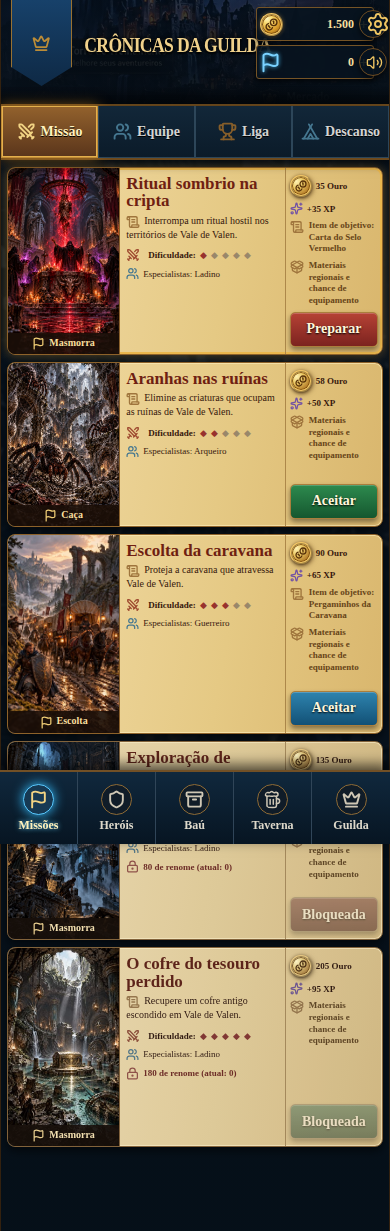
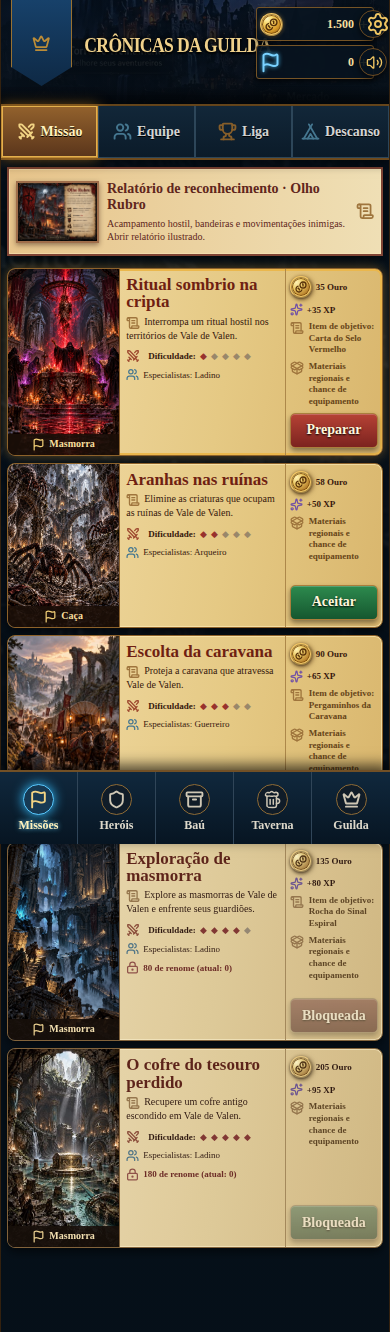
Integra artes aprovadas da Liga, Santuário e Olho Rubro
Aplica os três materiais enviados diretamente às telas existentes, com brasões/troféus como componentes, Santuário em proporção inteira e relatório regional do Olho Rubro. Testes de imagens, build e visual PC/celular aprovados.

diff --git a/app/game-client.tsx b/app/game-client.tsx
@@ -38,6 +38,19 @@ const ATTRIBUTE_SYMBOLS:Record<string,GameSymbolKind>={Ataque:"attack",Defesa:"d
 
 const missionArt = ["/reference/mission-1.webp", "/reference/mission-2.webp", "/reference/mission-3.webp", "/reference/mission-4.webp", "/reference/mission-5.webp"];
 const valenMissionArt = Array.from({ length: 7 }, (_, i) => `/reference/valen-mission-${i + 1}.jpg`);
+const LEAGUE_TROPHY = "/league/trophy.webp";
+const LEAGUE_PLAYER_CREST = "/league/crest-player.webp";
+const RIVAL_CREST_NAMES: Record<string,number> = {
+  "Cavaleiros da Tempestade":0, "Escudos da Fronteira":1,
+  "Arautos da Floresta":2, "Andarilhos da Montanha":3, "Arautos da Torre":4
+};
+function leagueCrest(guild:{id:string;name:string}) {
+  if(guild.id==="player") return LEAGUE_PLAYER_CREST;
+  const named=RIVAL_CREST_NAMES[guild.name];
+  const rivalId=/^rival-(\d+)$/.exec(guild.id);
+  const fallback=rivalId?Number(rivalId[1])%5:Math.abs([...guild.id].reduce((acc,ch)=>acc*31+ch.charCodeAt(0),0))%5;
+  return "/league/crest-rival-"+(named??fallback)+".webp";
+}
 const itemSlots = new Set(["weapon","offhand","helmet","armor","gloves","boots","accessory"]);
 const specialtyNames: Record<string,string> = {
   warrior:"Guerreiro", paladin:"Paladino", rogue:"Ladino", ranger:"Arqueiro",
@@ -329,6 +342,18 @@ function MissionPage({
   const boss = seasonBoss(state);
   const cards = [...board, ...(boss ? [boss] : [])];
   return <section className="screen mission-screen">
+    {state.activeRegion===1&&<details className="enemy-dossier parchment">
+      <summary>
+        <img src="/reference/olho-rubro-report-2026.webp" alt="" loading="lazy"/>
+        <span><strong>Relatório de reconhecimento · Olho Rubro</strong>
+          <small>Acampamento hostil, bandeiras e movimentações inimigas. Abrir relatório ilustrado.</small></span>
+        <GameSymbol kind="objective" size={23}/>
+      </summary>
+      <div className="enemy-dossier-content">
+        <img src="/reference/olho-rubro-report-2026.webp" alt="Relatório ilustrado sobre o posto avançado do Olho Rubro, com fortificações, estandartes, objetivos e recomendações de reconhecimento." loading="lazy"/>
+        <p>Registro de inteligência sobre o Olho Rubro. Os objetivos, dificuldades e recompensas válidos para jogar estão nas missões abaixo.</p>
+      </div>
+    </details>}
     <div className="mission-list">
       {cards.map((m, index) => {
         const locks = missionLocks(state, m);
@@ -463,14 +488,14 @@ function LeaguePage({ state, team, act, busy }: { state: Campaign; team: string[
   return <section className="screen league-screen">
     <div className="league-summary parchment">
       <div><span>Nossa Posição</span><strong>{place}º</strong></div>
-      <div className="big-crest"><GameSymbol kind="guild"/></div>
-      <div><h2>{state.name}</h2><p><GameSymbol kind="league"/> {state.points} Pontos da Liga</p><small><GameSymbol kind="fame"/> Prestígio: {state.fame} · Divisão {rank(state)}</small></div>
+      <div className="big-crest"><img src={LEAGUE_PLAYER_CREST} alt="Brasão da Guilda do Alvorecer: sol dourado sobre montanhas e fundo azul." width={90} height={104}/></div>
+      <div><h2>{state.name}</h2><p><img className="league-trophy" src={LEAGUE_TROPHY} alt="" width={24} height={29}/> {state.points} Pontos da Liga</p><small><GameSymbol kind="fame"/> Prestígio: {state.fame} · Divisão {rank(state)}</small></div>
     </div>
-    <ParchmentTitle icon={<GameSymbol kind="league"/>} title="Classificação da Liga" side={<span>Temporada {state.season}</span>} />
+    <ParchmentTitle icon={<img className="league-trophy" src={LEAGUE_TROPHY} alt="" width={29} height={35}/>} title="Classificação da Liga" side={<span>Temporada {state.season}</span>} />
     <div className="league-table parchment">
-      <div className="league-head"><b>#</b><b>Guilda</b><b><GameSymbol kind="league"/> Pontos</b><b><GameSymbol kind="reward"/> Recompensa</b></div>
+      <div className="league-head"><b>#</b><b>Guilda</b><b><img className="league-trophy" src={LEAGUE_TROPHY} alt="" width={17} height={21}/> Pontos</b><b><GameSymbol kind="reward"/> Recompensa</b></div>
       {table.slice(0,5).map((g,i) => <div key={g.id} className="league-row" data-player={g.id === "player"}>
-        <strong>{i+1}</strong><span><i className={"mini-banner b" + (i%5)} />{g.name}</span><b><GameSymbol kind="league"/> {g.points}</b><small><GameSymbol kind="reward"/> {leaguePrize(i+1, state.leagueTier)} ouro</small>
+        <strong>{i+1}</strong><span><img className="league-rival-crest" src={leagueCrest(g)} alt={"Brasão de "+g.name} width={42} height={48}/>{g.name}</span><b><img className="league-trophy" src={LEAGUE_TROPHY} alt="" width={22} height={28}/> {g.points}</b><small><GameSymbol kind="reward"/> {leaguePrize(i+1, state.leagueTier)} ouro</small>
       </div>)}
     </div>
     <ParchmentTitle icon={<GameSymbol kind="battle"/>} title="Desafio de Guilda" side={<span>Equipe: {team.length}/4</span>} />
@@ -490,7 +515,7 @@ function RestPage({ state, act, busy }: { state: Campaign; act: (a: Action) => v
   const shown = (recover.length ? recover : state.heroes).slice(0,4);
   return <section className="screen rest-screen">
     <div className="sanctuary-head parchment">
-      <img src="/reference/sanctuary.webp" alt="" />
+      <img src="/reference/sanctuary-2026.webp" alt="Santuário da Guilda: acampamento medieval com leitos de recuperação, fogueira, lanternas e o estandarte azul da guilda." width={1360} height={765} />
       <div><h2><GameSymbol kind="sanctuary"/> Santuário da Guilda</h2><p>Aqui seus heróis feridos podem repousar e se recuperar para novas aventuras.</p>
         <strong><GameSymbol kind="squad"/> Capacidade</strong><div className="beds">▰ ▰ ▰ ▱ ▱</div><span>{recover.length} heróis precisam de recuperação</span>
       </div>
@@ -827,7 +852,7 @@ function GuildPage({
   const raidTeams = availableRaidHeroes.length >= 9 ? [availableRaidHeroes.slice(0,3).map(h=>h.id),availableRaidHeroes.slice(3,6).map(h=>h.id),availableRaidHeroes.slice(6,9).map(h=>h.id)] : [];
   return <section className="screen guild-screen">
     <div className="guild-identity parchment">
-      <div className="guild-banner"><GameSymbol kind="guild"/></div>
+      <div className="guild-banner"><img src={LEAGUE_PLAYER_CREST} alt="Brasão da Guilda do Alvorecer" width={88} height={102}/></div>
       <div><h2>{state.name}</h2><p>Força na união, glória em cada jornada.</p><span><GameSymbol kind="squad"/> Membros: {state.heroes.length}/12</span><span><GameSymbol kind="defense"/> Nível da Guilda: {Math.max(1,Math.ceil(state.fame/120))}</span></div>
       <aside><strong><GameSymbol kind="gold"/> Tesouro {fmt(state.gold)}</strong><strong><GameSymbol kind="fame"/> Renome {state.fame}</strong><strong><GameSymbol kind="league"/> Liga {rank(state)}</strong></aside>
     </div>

diff --git a/app/ui.css b/app/ui.css
@@ -1974,3 +1974,118 @@ svg.game-symbol--forge,svg.game-symbol--merchant{color:#7d5732}
 .symbol-guide-grid>span svg.game-symbol--gold,.symbol-guide-grid>span svg.game-symbol--reward{width:23px;height:23px}
 @media(max-width:550px){.symbol-guide-grid{grid-template-columns:repeat(2,minmax(0,1fr))}.symbol-guide-grid>span{font-size:10px}}
 @media(min-width:1000px){.symbol-guide-grid{grid-template-columns:repeat(4,minmax(0,1fr))}}
+
+/* Artes oficiais enviadas: 3 origens, sem recorte forçado do Santuário ou do dossiê. */
+.league-summary{
+  position:relative;
+  grid-template-columns:minmax(105px,25%) minmax(80px,17%) minmax(0,1fr);
+  gap:clamp(7px,1.5vw,22px);
+  padding:clamp(11px,1.5vw,18px);
+  border:2px solid #b58b44;
+  background:linear-gradient(140deg,#fff2cd 0%,#eed499 46%,#dcbc7a 100%);
+}
+.league-summary>div:first-child strong{font-size:clamp(40px,4.5vw,62px)}
+.league-summary .big-crest{
+  width:clamp(65px,9vw,105px);height:auto;
+  display:flex;align-items:center;justify-content:center;
+  margin-inline:auto;
+  background:transparent;clip-path:none;overflow:visible;
+}
+.league-summary .big-crest img{
+  width:100%;height:auto;object-fit:contain;
+  filter:drop-shadow(0 3px 3px #44260870);
+}
+.league-trophy{width:23px;height:28px;object-fit:contain;vertical-align:middle;flex-shrink:0;filter:drop-shadow(0 1px 2px #81471466)}
+.league-head .league-trophy{width:17px;height:21px}
+.league-summary .league-trophy{width:22px;height:27px}
+.league-row{min-height:60px}
+.league-row>span{min-width:0;gap:clamp(5px,.8vw,12px);font-size:clamp(10px,1.03vw,14px)}
+.league-row .league-rival-crest{
+  width:clamp(32px,4vw,46px);height:clamp(36px,4.5vw,52px);
+  object-fit:contain;flex-shrink:0;
+  filter:drop-shadow(0 1px 2px #57311288);
+}
+.league-row>b .league-trophy{width:21px;height:27px}
+.league-row>small{font-size:clamp(9px,.85vw,12px)}
+.league-row>small svg.game-symbol{min-height:20px;min-width:20px}
+.guild-banner{
+  width:clamp(60px,8vw,100px);height:auto;aspect-ratio:136/157;
+  background:transparent;clip-path:none;overflow:visible;
+  display:flex;align-items:center;justify-content:center;
+}
+.guild-banner img{display:block;width:100%;height:100%;object-fit:contain;filter:drop-shadow(0 3px 3px #44260870)}
+/* Imagem completa do Santuário, mantendo 1672×940 proporcionalmente. */
+.sanctuary-head{
+  grid-template-columns:minmax(0,1.75fr) minmax(180px,.8fr);
+  min-height:0;
+  align-items:center;
+  border:2px solid #c29b58;
+  overflow:hidden;
+}
+.sanctuary-head>img{
+  display:block;width:100%;height:auto;aspect-ratio:1360 / 765;
+  object-fit:contain;object-position:center;
+}
+.sanctuary-head>div{align-self:stretch;display:flex;flex-direction:column;justify-content:center;padding:clamp(10px,2vw,24px)}
+.sanctuary-head h2{font-size:clamp(21px,2.5vw,31px)}
+.sanctuary-head p{font-size:clamp(11px,1.1vw,14px);line-height:1.4}
+/* Olho Rubro: relatório ilustrado, separado da dificuldade/recompensas reais da missão. */
+.enemy-dossier{
+  margin:0 0 12px;
+  overflow:hidden;
+  border:2px solid #7f4434;
+  background:linear-gradient(90deg,#e7c58c,#efdfb5);
+}
+.enemy-dossier>summary{
+  display:flex;align-items:center;gap:13px;
+  min-height:85px;padding:8px 12px;
+  cursor:pointer;list-style:none;
+  color:#60261c;
+}
+.enemy-dossier>summary::-webkit-details-marker{display:none}
+.enemy-dossier>summary>img{width:108px;height:69px;object-fit:cover;object-position:17% center;border:2px solid #9f6e4b;box-shadow:0 2px 5px #30130c77}
+.enemy-dossier>summary>span{display:grid;gap:4px;flex:1;min-width:0}
+.enemy-dossier>summary strong{font-size:clamp(15px,1.5vw,22px)}
+.enemy-dossier>summary small{font-size:clamp(10px,1vw,13px);line-height:1.3}
+.enemy-dossier>summary svg{flex-shrink:0}
+.enemy-dossier[open]>summary{border-bottom:1px solid #a16a45}
+.enemy-dossier-content{padding:12px;display:grid;justify-items:center;gap:8px}
+.enemy-dossier-content img{
+  display:block;width:100%;max-width:1100px;height:auto;
+  object-fit:contain;border:1px solid #8c4b30;
+  box-shadow:0 5px 20px #29180a59;
+}
+.enemy-dossier-content p{max-width:1000px;margin:4px 0;color:#5d3722;font-size:12px;line-height:1.4}
+@media(max-width:760px){
+  .sanctuary-head{grid-template-columns:minmax(0,1fr)}
+  .sanctuary-head>img{width:100%;height:auto;aspect-ratio:1360/765;object-fit:contain}
+  .sanctuary-head>div{padding:12px}
+  .league-summary{grid-template-columns:24% 24% minmax(0,1fr);gap:7px;min-height:125px}
+  .league-summary .big-crest{width:clamp(56px,11vw,90px)}
+  .league-summary h2{font-size:clamp(14px,3.7vw,23px);line-height:1.16}
+  .league-row{grid-template-columns:8% 44% 19% 29%;min-height:60px}
+  .league-row>span{font-size:clamp(9px,2vw,12px)}
+  .league-row .league-rival-crest{width:33px;height:38px}
+  .league-row>small{font-size:10px}
+  .league-row .league-trophy{width:18px;height:24px}
+  .enemy-dossier>summary{padding:7px;gap:8px}
+  .enemy-dossier>summary>img{width:83px;height:62px}
+  .enemy-dossier-content{padding:6px}
+}
+@media(max-width:430px){
+  .league-summary{grid-template-columns:23% 22% minmax(0,1fr);padding:8px;gap:5px}
+  .league-summary>div:first-child span{font-size:9px}
+  .league-summary>div:first-child strong{font-size:39px}
+  .league-summary .big-crest{width:56px}
+  .league-summary h2{font-size:14px}
+  .league-summary p,.league-summary small{font-size:9px}
+  .league-table{overflow-x:auto}
+  .league-head,.league-row{min-width:0;grid-template-columns:8% 44% 20% 28%}
+  .league-row>span{font-size:9px;gap:4px}
+  .league-row .league-rival-crest{width:29px;height:35px}
+  .league-row>b,.league-row>small{font-size:8px}
+  .league-row>small svg.game-symbol{min-width:17px;min-height:17px;width:17px;height:17px}
+  .league-row .league-trophy{width:16px;height:21px}
+  .enemy-dossier>summary strong{font-size:14px}
+  .enemy-dossier>summary small{font-size:10px}
+}
